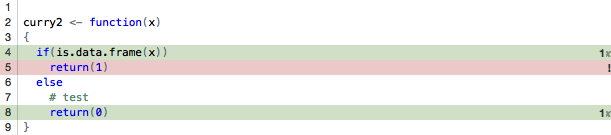
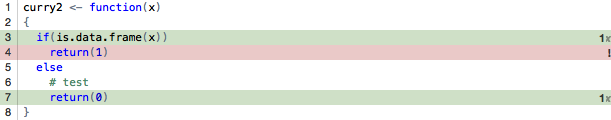
Update README to use code_coverage

Changed region(s): [[0.0, 0.125, 1.0, 0.975], [0.0311, 0.025, 0.2799, 0.1]]

diff --git a/README.md b/README.md
@@ -20,55 +20,43 @@ file.rename("R/addition.R.bak", "R/addition.R")
 ``` r
 library(knitr)
 library(webshot)
-source_file <- tempfile()
-test_file <- tempfile()
-
-cat(file = source_file,
-'
-curry2 <- function(x)
+cov <- code_coverage(
+'curry2 <- function(x)
 {
   if(is.data.frame(x))
     return(1)
   else
     # test
     return(0)
-}
-')
-
-cat(file = test_file,
+}',
 'curry2("a")')
 
-cov <- file_coverage(source_file, test_file)
 webshot(report(cov, browse = FALSE), selector = c("#files"), eval = "casper.then(function() { this.click('td a')});")
 ```
 
 ![](README-unnamed-chunk-3-1.png)
 
 ``` r
+percent_coverage(cov)
+#> [1] 66.66667
 as.data.frame(cov)
-#>                                                                        filename
-#> 1 /var/folders/dt/r5s12t392tb5sk181j3gs4zw0000gn/T//RtmpyXdgHV/file899c5ed3da27
-#> 2 /var/folders/dt/r5s12t392tb5sk181j3gs4zw0000gn/T//RtmpyXdgHV/file899c5ed3da27
-#> 3 /var/folders/dt/r5s12t392tb5sk181j3gs4zw0000gn/T//RtmpyXdgHV/file899c5ed3da27
+#>                                                                            filename
+#> 1 /var/folders/dt/r5s12t392tb5sk181j3gs4zw0000gn/T//RtmpyXdgHV/source.R899c17098495
+#> 2 /var/folders/dt/r5s12t392tb5sk181j3gs4zw0000gn/T//RtmpyXdgHV/source.R899c17098495
+#> 3 /var/folders/dt/r5s12t392tb5sk181j3gs4zw0000gn/T//RtmpyXdgHV/source.R899c17098495
 #>   functions first_line first_byte last_line last_byte first_column
-#> 1    curry2          4          6         4        21            6
-#> 2    curry2          5          5         5        13            5
-#> 3    curry2          8          5         8        13            5
+#> 1    curry2          3          6         3        21            6
+#> 2    curry2          4          5         4        13            5
+#> 3    curry2          7          5         7        13            5
 #>   last_column first_parsed last_parsed value
-#> 1          21            4           4     1
-#> 2          13            5           5     0
-#> 3          13            8           8     1
-file.remove(source_file, test_file)
-#> [1] TRUE TRUE
+#> 1          21            3           3     1
+#> 2          13            4           4     0
+#> 3          13            7           7     1
 ```
 
 ``` r
-source_file <- tempfile()
-test_file <- tempfile()
-
-cat(file = source_file,
-'
-curry <- function(x)
+cov <- code_coverage(
+'curry <- function(x)
 {
   if(is.data.frame(x)){
     # test0
@@ -85,44 +73,40 @@ curry <- function(x)
     return(3)
 
   }
-}
-')
-
-cat(file = test_file,
+}',
 'curry("a")')
 
-cov <- file_coverage(source_file, test_file)
 webshot(report(cov, browse = FALSE), selector = c("#files"), eval = "casper.then(function() { this.click('td a')});")
 ```
 
 ![](README-unnamed-chunk-4-1.png)
 
 ``` r
+percent_coverage(cov)
+#> [1] 42.85714
 as.data.frame(cov)
-#>                                                                        filename
-#> 1 /var/folders/dt/r5s12t392tb5sk181j3gs4zw0000gn/T//RtmpyXdgHV/file899c72088620
-#> 2 /var/folders/dt/r5s12t392tb5sk181j3gs4zw0000gn/T//RtmpyXdgHV/file899c72088620
-#> 3 /var/folders/dt/r5s12t392tb5sk181j3gs4zw0000gn/T//RtmpyXdgHV/file899c72088620
-#> 4 /var/folders/dt/r5s12t392tb5sk181j3gs4zw0000gn/T//RtmpyXdgHV/file899c72088620
-#> 5 /var/folders/dt/r5s12t392tb5sk181j3gs4zw0000gn/T//RtmpyXdgHV/file899c72088620
-#> 6 /var/folders/dt/r5s12t392tb5sk181j3gs4zw0000gn/T//RtmpyXdgHV/file899c72088620
-#> 7 /var/folders/dt/r5s12t392tb5sk181j3gs4zw0000gn/T//RtmpyXdgHV/file899c72088620
+#>                                                                            filename
+#> 1 /var/folders/dt/r5s12t392tb5sk181j3gs4zw0000gn/T//RtmpyXdgHV/source.R899c4702e652
+#> 2 /var/folders/dt/r5s12t392tb5sk181j3gs4zw0000gn/T//RtmpyXdgHV/source.R899c4702e652
+#> 3 /var/folders/dt/r5s12t392tb5sk181j3gs4zw0000gn/T//RtmpyXdgHV/source.R899c4702e652
+#> 4 /var/folders/dt/r5s12t392tb5sk181j3gs4zw0000gn/T//RtmpyXdgHV/source.R899c4702e652
+#> 5 /var/folders/dt/r5s12t392tb5sk181j3gs4zw0000gn/T//RtmpyXdgHV/source.R899c4702e652
+#> 6 /var/folders/dt/r5s12t392tb5sk181j3gs4zw0000gn/T//RtmpyXdgHV/source.R899c4702e652
+#> 7 /var/folders/dt/r5s12t392tb5sk181j3gs4zw0000gn/T//RtmpyXdgHV/source.R899c4702e652
 #>   functions first_line first_byte last_line last_byte first_column
-#> 1     curry          4          6         4        21            6
-#> 2     curry          6          5         6        13            5
-#> 3     curry          7         15         7        29           15
-#> 4     curry          9          5         9        13            5
-#> 5     curry         11         14        11        26           14
-#> 6     curry         13          5        13        13            5
-#> 7     curry         16          5        16        13            5
+#> 1     curry          3          6         3        21            6
+#> 2     curry          5          5         5        13            5
+#> 3     curry          6         15         6        29           15
+#> 4     curry          8          5         8        13            5
+#> 5     curry         10         14        10        26           14
+#> 6     curry         12          5        12        13            5
+#> 7     curry         15          5        15        13            5
 #>   last_column first_parsed last_parsed value
-#> 1          21            4           4     1
-#> 2          13            6           6     0
-#> 3          29            7           7     1
-#> 4          13            9           9     1
-#> 5          26           11          11     0
-#> 6          13           13          13     0
-#> 7          13           16          16     0
-file.remove(source_file, test_file)
-#> [1] TRUE TRUE
+#> 1          21            3           3     1
+#> 2          13            5           5     0
+#> 3          29            6           6     1
+#> 4          13            8           8     1
+#> 5          26           10          10     0
+#> 6          13           12          12     0
+#> 7          13           15          15     0
 ```
